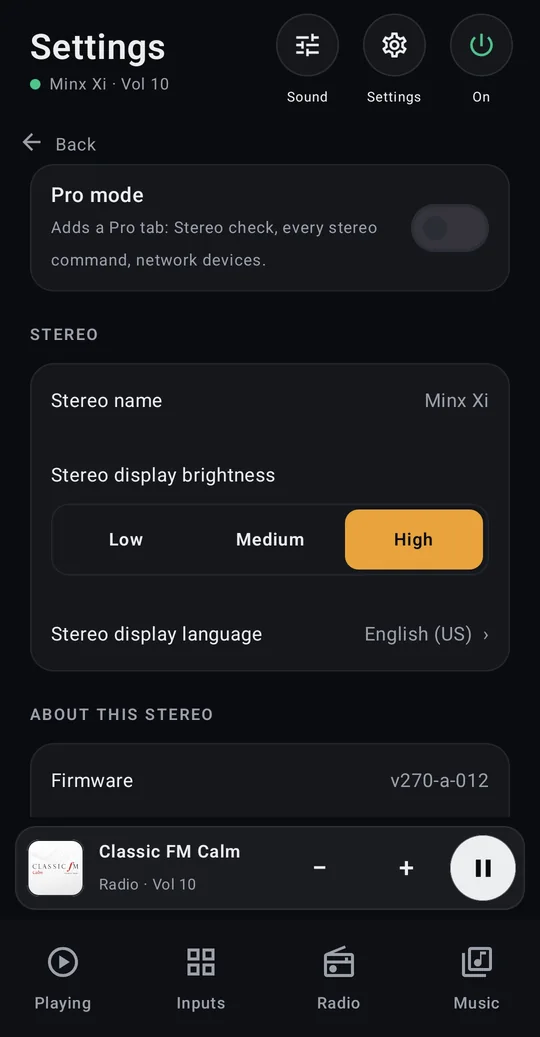
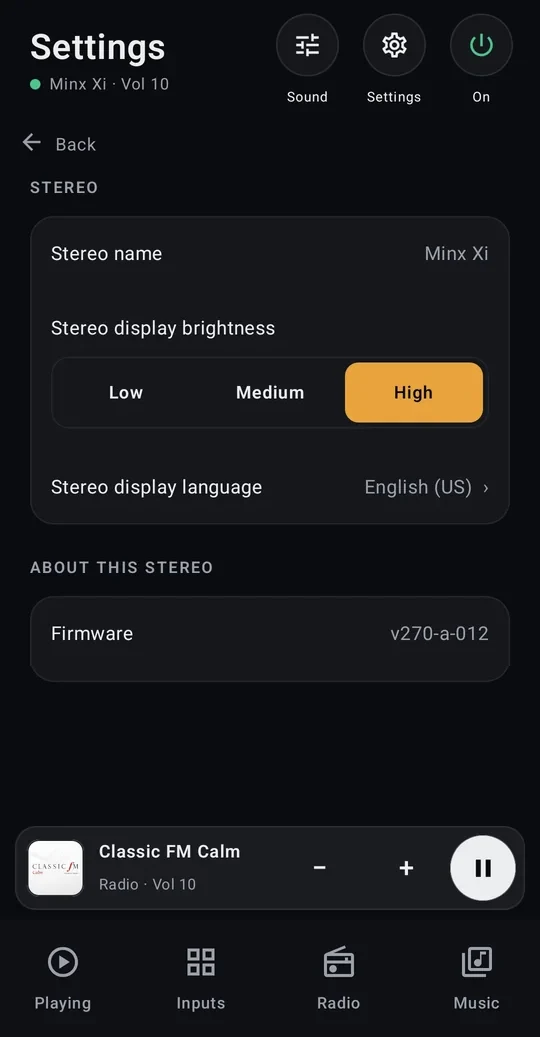
Remove leftover Pro, virtual remote and URL-try code; README and website updated (Easy preset switching card, Report a problem, new Settings screenshot)
Claude-Session: https://claude.ai/code/session_01SzvnwcUQWiAH4hvT4v1D63

diff --git a/app/src/main/java/io/github/eyalprice/ccl/StereoViewModel.kt b/app/src/main/java/io/github/eyalprice/ccl/StereoViewModel.kt
@@ -44,7 +44,6 @@ data class StereoState(
     val found: List<Upnp.Found> = emptyList(),
     /** Result line of the last network search, shown on the first-start screen. */
     val searchInfo: String = "",
-    val pro: Boolean = false,
     val message: String? = null,
     val about: Map<String, String> = emptyMap(),
     val languages: List<Pair<String, String>> = emptyList(),
@@ -90,7 +89,7 @@ private const val BALANCE_UNIT = 16
 class StereoViewModel(app: Application) : AndroidViewModel(app) {
 
     private val prefs = app.getSharedPreferences("ccl", Context.MODE_PRIVATE)
-    private val _state = MutableStateFlow(StereoState(pro = prefs.getBoolean("pro", false)))
+    private val _state = MutableStateFlow(StereoState())
     val state: StateFlow<StereoState> = _state
 
     var device: Upnp.Device? = null
@@ -122,11 +121,6 @@ class StereoViewModel(app: Application) : AndroidViewModel(app) {
 
     fun toast(msg: String?) = _state.update { it.copy(message = msg) }
 
-    fun setPro(on: Boolean) {
-        prefs.edit().putBoolean("pro", on).apply()
-        _state.update { it.copy(pro = on) }
-    }
-
     // ------------------------------------------------------------ discovery & connect
 
     fun search(ip: String? = null) {
@@ -154,7 +148,7 @@ class StereoViewModel(app: Application) : AndroidViewModel(app) {
         pollJob?.cancel()
         device = null
         navId = null
-        _state.update { StereoState(pro = it.pro) }
+        _state.update { StereoState() }
         search()
     }
 
@@ -316,7 +310,7 @@ class StereoViewModel(app: Application) : AndroidViewModel(app) {
         text
     }
 
-    // ------------------------------------------------------------ custom station test (Pro)
+    // ------------------------------------------------------------ stream and web page probe (for the diagnostic report)
 
     fun stereoHost(): String = device?.host().orEmpty()
 
@@ -345,36 +339,6 @@ class StereoViewModel(app: Application) : AndroidViewModel(app) {
                 append(a + ": " + (if (r?.ok() == true) r.out.entries.joinToString("; ") { "${it.key}=${it.value.take(300)}" } else "no answer") + "\n")
             }
             out("GetPlaybackDetails")?.let { append("GetPlaybackDetails: ${it.take(1200)}\n") }
-        }
-    }
-
-    fun streamCandidates(): List<String> = device?.let { d -> StreamTest.playCandidates(d).map { it.second.name } } ?: emptyList()
-
-    /** Tries to play [url] with the chosen command, then reports what the stereo says is playing. */
-    suspend fun tryStream(actionName: String, name: String, url: String): String = withContext(Dispatchers.IO) {
-        if (StreamTest.isDangerous(actionName)) return@withContext "Blocked for safety."
-        val d = device ?: return@withContext "Not connected to a stereo."
-        val (sv, a) = StreamTest.playCandidates(d).firstOrNull { it.second.name == actionName } ?: return@withContext "Command not found."
-        val args = a.inArgs().map { arg ->
-            val n = arg.name.lowercase()
-            arg.name to when {
-                n.contains("metadata") -> StreamTest.didl(name, url)
-                n.contains("url") || n.contains("uri") -> url
-                n.contains("name") || n.contains("title") -> name
-                else -> ""
-            }
-        }.filter { it.second.isNotEmpty() }.toTypedArray()
-        buildString {
-            val r = callBlocking(actionName, *args)
-            append("$actionName → " + (if (r == null) "no answer" else "HTTP ${r.httpCode}" + if (r.ok()) " OK" else ": " + r.body.take(300)) + "\n")
-            if (r?.ok() == true && actionName == "SetAVTransportURI") {
-                val p = callBlocking("Play", "Speed" to "1")
-                append("Play → " + (if (p?.ok() == true) "OK" else "HTTP ${p?.httpCode}") + "\n")
-            }
-            delay(5000)
-            append("After 5 s: transport=${out("GetTransportInfo") ?: "?"}\n")
-            out("GetPlaybackDetails")?.let { append("Playback: ${Reciva.playback(it).let { pb -> "${pb.state} · ${pb.title} · ${pb.format}" }}\n") }
-            refreshOnce()
         }
     }
 
@@ -616,7 +580,7 @@ class StereoViewModel(app: Application) : AndroidViewModel(app) {
             toast("Saving “${title.ifBlank { "current station" }}” to preset $n…")
             val ok = savePlayingTo(n, title)
             toast(if (ok) "Saved “${presetTitleCached(n) ?: title}” to preset $n."
-                  else "The stereo didn't save to preset $n. Try another slot, or share the debug log (Pro › Troubleshooting).")
+                  else "The stereo didn't save to preset $n. Try another slot, or create a diagnostic report (Settings › Report a problem).")
             refreshOnce()
         }
     }
@@ -1021,7 +985,7 @@ class StereoViewModel(app: Application) : AndroidViewModel(app) {
             }
             val playingTitle = Reciva.playback(out("GetPlaybackDetails")).title.ifBlank { station.name }
             if (savePlayingTo(n, playingTitle)) toast("Saved “${presetTitleCached(n) ?: station.name}” to preset $n.")
-            else toast("The stereo didn't save “${station.name}” to preset $n. Try another slot, or share the debug log (Pro › Troubleshooting).")
+            else toast("The stereo didn't save “${station.name}” to preset $n. Try another slot, or create a diagnostic report (Settings › Report a problem).")
             refreshOnce()
         }
     }
@@ -1032,35 +996,6 @@ class StereoViewModel(app: Application) : AndroidViewModel(app) {
 
     fun queueDelete(id: Int) = send("DeletePlaylistTrack", "PlaylistTrackID" to id.toString())
     fun queueJump(id: Int) = send("SetCurrentPlaylistTrack", "CurrentPlaylistTrackID" to id.toString())
-
-    // ------------------------------------------------------------ virtual remote
-
-    private val keyAliases = mapOf(
-        "SELECT" to listOf("SELECT", "OK", "ENTER"), "BACK" to listOf("BACK", "RETURN"),
-        "PREV" to listOf("PREVIOUS", "PREV"), "VOLUP" to listOf("VOLUME_UP", "VOLUP", "VOL_UP"),
-        "VOLDOWN" to listOf("VOLUME_DOWN", "VOLDOWN", "VOL_DOWN"), "PLAY" to listOf("PLAY", "PLAY_PAUSE", "PLAYPAUSE"),
-    )
-
-    /**
-     * Sends a handset key. The firmware's key names aren't documented, so a few spellings are tried
-     * and the first one the stereo accepts is remembered.
-     */
-    suspend fun pressKey(key: String): String = withContext(Dispatchers.IO) {
-        if (!has("KeyPressed")) return@withContext "This stereo has no remote-key command."
-        prefs.getString("key_$key", null)?.split('|')?.takeIf { it.size == 2 }?.let { (name, dur) ->
-            val r = callBlocking("KeyPressed", "Key" to name, "Duration" to dur)
-            if (r != null && r.ok()) return@withContext "Sent $key"
-        }
-        val names = (keyAliases[key] ?: listOf(key)).flatMap { listOf(it, "KEY_$it", it.lowercase().replaceFirstChar { c -> c.uppercase() }) }
-        for (name in names) for (dur in listOf("SHORT", "0", "100")) {
-            val r = callBlocking("KeyPressed", "Key" to name, "Duration" to dur)
-            if (r != null && r.ok()) {
-                prefs.edit().putString("key_$key", "$name|$dur").apply()
-                return@withContext "Sent $key (as “$name”)"
-            }
-        }
-        "The stereo didn't accept the $key key."
-    }
 
     override fun onCleared() {
         pollJob?.cancel()

diff --git a/docs/index.html b/docs/index.html
@@ -254,8 +254,8 @@
           <h3>Private by design</h3><p>It talks only to your stereo on your home Wi-Fi. No accounts, no ads, no tracking. The code is open for anyone to check.</p></div>
         <div class="card"><div class="ico"><svg viewBox="0 0 24 24" fill="none" stroke="currentColor" stroke-width="2" stroke-linecap="round" aria-hidden="true"><circle cx="12" cy="12" r="3"/><circle cx="12" cy="12" r="8"/></svg></div>
           <h3>Stereo settings</h3><p>See your stereo's name, firmware and details, and set its display brightness and language.</p></div>
-        <div class="card"><div class="ico"><svg viewBox="0 0 24 24" fill="none" stroke="currentColor" stroke-width="2" stroke-linecap="round" aria-hidden="true"><path d="M4 21v-7M4 10V3M12 21v-9M12 8V3M20 21v-5M20 12V3M1 14h6M9 8h6M17 16h6"/></svg></div>
-          <h3>Pro mode</h3><p>For enthusiasts: a full stereo check, a virtual remote and every stereo command. Switch it on in Settings.</p></div>
+        <div class="card"><div class="ico"><svg viewBox="0 0 24 24" fill="none" stroke="currentColor" stroke-width="2" stroke-linecap="round" stroke-linejoin="round" aria-hidden="true"><path d="M5 5l7 7-7 7M13 5l7 7-7 7"/></svg></div>
+          <h3>Easy preset switching</h3><p>Swipe the station card, or press next and back, to step through your radio presets. The new name shows straight away.</p></div>
       </div>
     </div>
   </section>
@@ -268,7 +268,7 @@
         <figure><div class="phone"><img src="img/radio.webp" width="540" height="1037" loading="lazy" alt="Radio screen: list of preset stations, with Classic FM Calm playing"></div><figcaption>Radio presets</figcaption></figure>
         <figure><div class="phone"><img src="img/inputs.webp" width="540" height="1037" loading="lazy" alt="Inputs screen: tiles for A1, A2, TV, D2, MP3, Bluetooth, Spotify and Radio"></div><figcaption>Inputs</figcaption></figure>
         <figure><div class="phone"><img src="img/sound.webp" width="540" height="1037" loading="lazy" alt="Sound screen: volume, bass, treble and balance controls, mute and invert phase"></div><figcaption>Sound</figcaption></figure>
-        <figure><div class="phone"><img src="img/settings.webp" width="540" height="1037" loading="lazy" alt="Settings screen: Pro mode, stereo name, display brightness and language, firmware version"></div><figcaption>Settings</figcaption></figure>
+        <figure><div class="phone"><img src="img/settings.webp" width="540" height="1037" loading="lazy" alt="Settings screen: stereo name, display brightness and language, firmware version"></div><figcaption>Settings</figcaption></figure>
       </div>
       <p class="fine" style="margin-top:18px">Real screenshots from the app on a Minx Xi.</p>
     </div>
@@ -311,8 +311,9 @@
       <div class="eyebrow">Get in touch</div>
       <h2>Found a bug? Have an idea?</h2>
       <p class="lead" style="max-width:680px;margin:14px auto 0">Reports and ideas go on GitHub, where everyone can see them and follow progress. You'll need a free GitHub account.</p>
+      <p class="fine" style="max-width:680px;margin:10px auto 0">Reporting a bug? In the app, open <strong>Settings → Report a problem</strong>, tap <strong>Create diagnostic report</strong>, then <strong>Share bug report</strong>, and attach the file to your report.</p>
       <div class="cta">
-        <a class="btn btn-ghost" href="https://github.com/EyalPrice/CambridgeConnectLegacy/issues/new?labels=bug&amp;title=Bug%3A%20&amp;body=**Stereo%20model%3A**%20%0A**Phone%3A**%20%0A**What%20happened%3A**%20%0A**What%20you%20expected%3A**%20" target="_blank" rel="noopener">Report a bug</a>
+        <a class="btn btn-ghost" href="https://github.com/EyalPrice/CambridgeConnectLegacy/issues/new?labels=bug&amp;title=Bug%3A%20&amp;body=**Stereo%20model%3A**%20%0A**Phone%3A**%20%0A**What%20happened%3A**%20%0A**What%20you%20expected%3A**%20%0A%0A(Please%20attach%20the%20diagnostic%20report%20from%20Settings%20%E2%86%92%20Report%20a%20problem.)" target="_blank" rel="noopener">Report a bug</a>
         <a class="btn btn-ghost" href="https://github.com/EyalPrice/CambridgeConnectLegacy/issues/new?labels=enhancement&amp;title=Idea%3A%20&amp;body=**Your%20idea%3A**%20%0A**Stereo%20model%3A**%20" target="_blank" rel="noopener">Request a feature</a>
         <a class="btn btn-ghost" href="https://github.com/EyalPrice/CambridgeConnectLegacy/discussions" target="_blank" rel="noopener">Say thanks</a>
         <a class="btn btn-ghost" href="https://github.com/EyalPrice/CambridgeConnectLegacy" target="_blank" rel="noopener">

diff --git a/app/src/main/java/io/github/eyalprice/ccl/StreamTest.kt b/app/src/main/java/io/github/eyalprice/ccl/StreamTest.kt
@@ -4,8 +4,8 @@ import java.net.HttpURLConnection
 import java.net.URL
 
 /**
- * Pro-mode test for custom radio stations: finds the stereo's address and web page, looks for any
- * command that reports or accepts a stream URL, and tries playing a URL the user types in.
+ * Stream and web-page probe for the diagnostic report: reads the stereo's built-in web page and lists
+ * any command that reports or accepts a stream URL (read-only).
  */
 object StreamTest {
     /** Never offered for a URL test, whatever their arguments. */
@@ -20,12 +20,6 @@ object StreamTest {
         d.services.flatMap { s -> s.actions.map { s to it } }.filter { (_, a) ->
             val n = a.name.lowercase()
             urlWords.any { n.contains(it) } || a.args.any { arg -> arg.name.lowercase().let { it.contains("url") || it.contains("uri") } }
-        }
-
-    /** Commands that take a URL argument and could start playback (user picks one to try). */
-    fun playCandidates(d: Upnp.Device): List<Pair<Upnp.Service, Upnp.Action>> =
-        related(d).filter { (_, a) ->
-            !isDangerous(a.name) && a.inArgs().any { it.name.lowercase().let { n -> n.contains("url") || n.contains("uri") } }
         }
 
     fun fetch(url: String): String = try {
@@ -50,13 +44,4 @@ object StreamTest {
     } catch (e: Exception) {
         "No answer (${e.javaClass.simpleName}: ${e.message ?: ""})"
     }
-
-    fun xml(s: String) = s.replace("&", "&amp;").replace("<", "&lt;").replace(">", "&gt;").replace("\"", "&quot;")
-
-    /** Minimal DIDL-Lite description so a UPnP player shows the station name. */
-    fun didl(name: String, url: String) =
-        "<DIDL-Lite xmlns=\"urn:schemas-upnp-org:metadata-1-0/DIDL-Lite/\" xmlns:dc=\"http://purl.org/dc/elements/1.1/\" " +
-            "xmlns:upnp=\"urn:schemas-upnp-org:metadata-1-0/upnp/\"><item id=\"1\" parentID=\"0\" restricted=\"1\">" +
-            "<dc:title>${xml(name)}</dc:title><upnp:class>object.item.audioItem.audioBroadcast</upnp:class>" +
-            "<res protocolInfo=\"http-get:*:*:*\">${xml(url)}</res></item></DIDL-Lite>"
 }

diff --git a/README.md b/README.md
@@ -20,22 +20,30 @@ keep controlling them from any Android phone, old or new.
 3. Your phone and stereo must be on the same Wi-Fi network.
 
 ## Use
-- **Find stereo**: searches your Wi-Fi for UPnP devices. Tap your Cambridge Audio unit (marked ★), or type its IP
-  address (found in the stereo's *Network config* menu).
-- **Remote**: volume, mute and playback controls (when the stereo offers them), plus your own buttons.
-- **Commands**: every command the stereo exposes. Run one, then tap **Pin to remote** to turn it into a button,
-  for example to select an input.
-  **Share this list** exports the full command list as text. It leaves out your IP address. Attaching it to a GitHub
-  issue helps add built-in support for more models.
+- **Connect**: the app finds your stereo on your Wi-Fi by itself. If it doesn't, type the stereo's IP address
+  (shown in the stereo's *Network config* menu).
+- **Now Playing**: a real volume knob, play/pause, next and back. On internet radio, next and back (or a swipe
+  across the station card) step through your presets.
+- **Inputs**: one tap per input. Long-press a tile to rename it, move it, or add it to the home-screen widget.
+- **Radio**: your presets, plus station search by name, country or genre. Save any find to a preset slot.
+- **Sound**: bass, treble, balance, mute and phase. The app learns your stereo's limits as you use it.
+- **Lock screen & widget**: control play, volume and inputs without opening the app. The phone's volume
+  buttons work even when the screen is locked.
+- **Settings**: stereo name, display brightness and language, firmware details and app updates.
+
+## Report a problem
+In the app, open **Settings → Report a problem → Create diagnostic report**, then **Share bug report** to save
+or send the file. Then [open a bug report](../../issues/new?labels=bug) and attach the file. Network addresses and
+most of the serial number are removed from the report.
 
 ## How it works
 These streamers are UPnP devices. The app discovers them with SSDP and reads their service descriptions.
-It then sends standard UPnP SOAP commands over your local network only.
+It then sends UPnP SOAP commands over your local network only.
 It has no accounts, no cloud connection and no tracking.
 
 ## Status
-Early version, 0.1. Volume and playback use the standard UPnP services. Built-in input-switching buttons will be
-added once the command lists from real units have been mapped.
+Works well on a Minx Xi. NP30 and Stream Magic 6 (v1) owners: please report how it goes.
+For safety, the app never sends firmware-update commands, and full power-off needs a long press and a confirmation.
 
 ## Build it yourself
 Each push to `main` is built by GitHub Actions and published as a release. To build locally, run
